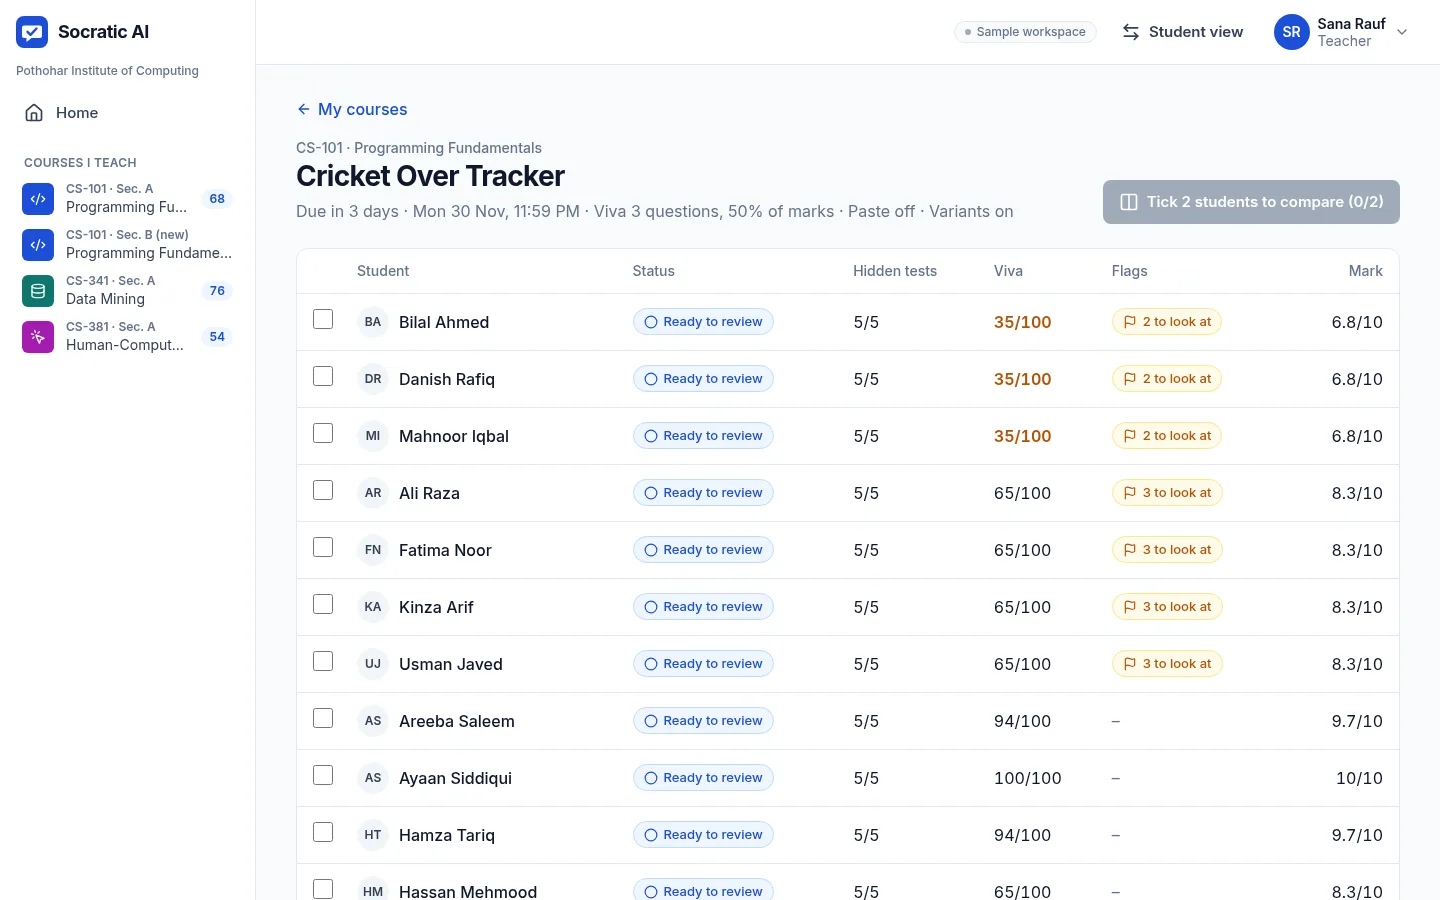
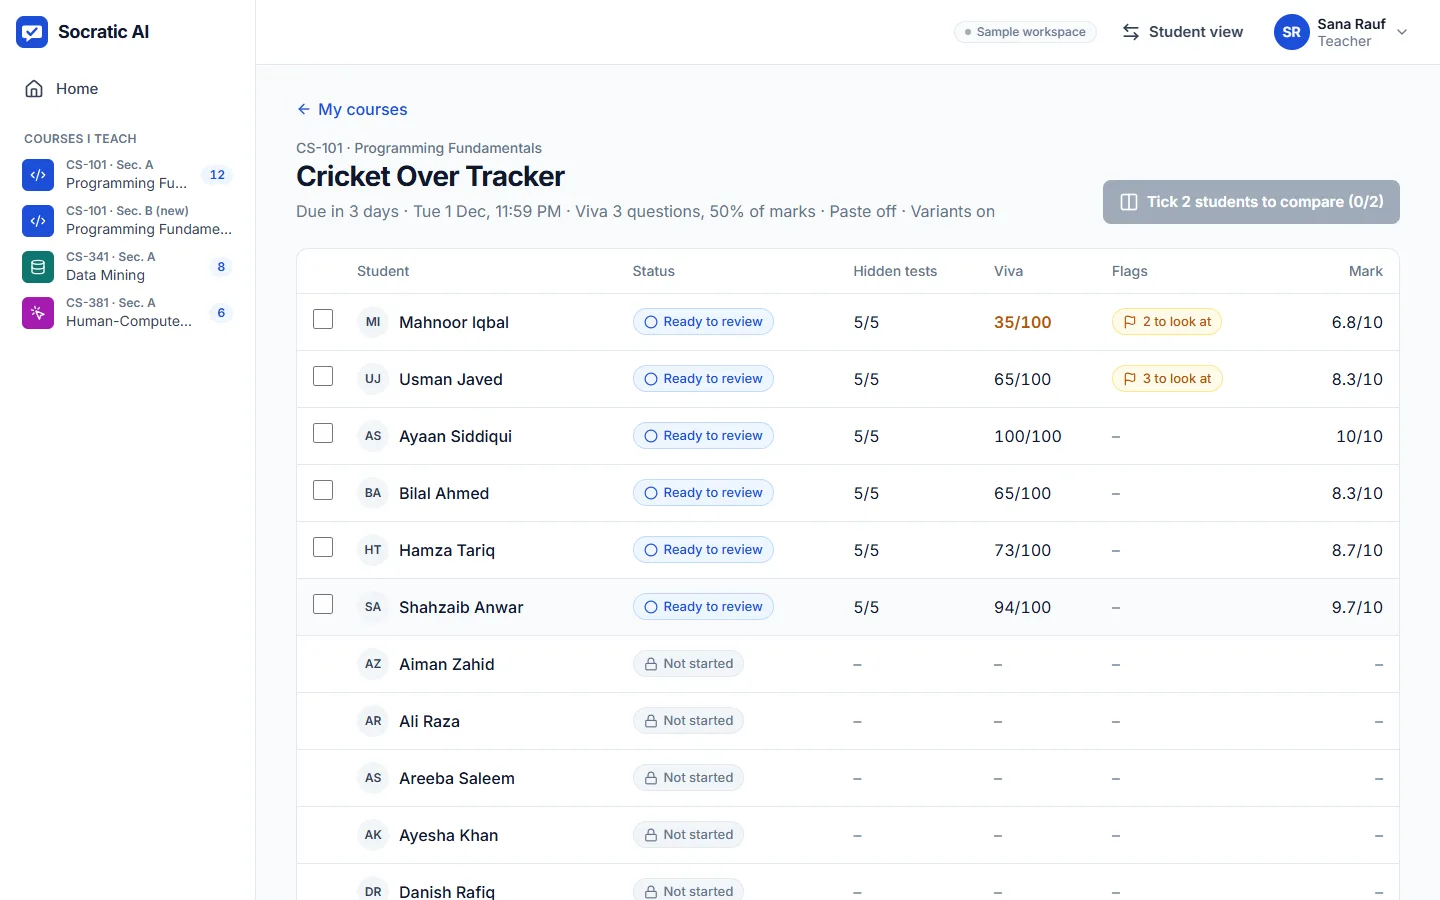
Seed runs on Windows; landing screenshots retaken from the clean sample class (T04, T14)

diff --git a/server/seed/seed.ts b/server/seed/seed.ts
@@ -241,8 +241,12 @@ async function main() {
     for (const [i, chunk] of chunks.entries()) {
       const file = path.join(dir, `seed-${i}.sql`);
       writeFileSync(file, ["begin;", ...chunk, "commit;"].join("\n") + "\n");
-      const r = spawnSync("npx", ["supabase", "db", "query", `--remote=${REFS[target]}`, "--yes", "-f", file], { encoding: "utf8", maxBuffer: 64 * 1024 * 1024 });
-      const output = `${r.stdout}\n${r.stderr}`;
+      // On Windows npx is npx.cmd, which Node can only start through a shell: pass one command line
+      // built from our own values (a fixed project ref and a temp file path, quoted).
+      const args = ["supabase", "db", "query", `--remote=${REFS[target]}`, "--yes", "-f"];
+      const opts = { encoding: "utf8" as const, maxBuffer: 64 * 1024 * 1024 };
+      const r = process.platform === "win32" ? spawnSync(`npx ${args.join(" ")} "${file}"`, { ...opts, shell: true }) : spawnSync("npx", [...args, file], opts);
+      const output = `${r.stdout ?? ""}\n${r.stderr ?? ""}${r.error ? `\n${r.error.message}` : ""}`;
       if (r.status !== 0 || /"_tag":\s*"Error"|ERROR:/.test(output)) {
         console.error(`Seeding ${target} failed in part ${i + 1} of ${chunks.length}:\n${output.slice(-1500)}`);
         process.exit(1);

diff --git a/scripts/marketing-shots.ts b/scripts/marketing-shots.ts
@@ -20,7 +20,8 @@ async function shot(p: Page, name: string) {
 }
 
 (async () => {
-  const b = await puppeteer.launch({ executablePath: "/usr/bin/google-chrome", headless: true, args: ["--no-sandbox"] });
+  // CHROME_PATH lets it run on Windows or macOS, e.g. "C:\Program Files\Google\Chrome\Application\chrome.exe".
+  const b = await puppeteer.launch({ executablePath: process.env.CHROME_PATH ?? "/usr/bin/google-chrome", headless: true, args: ["--no-sandbox"] });
   try {
     // ---------------- student
     const s = await b.newPage();

diff --git a/docs/backlog.md b/docs/backlog.md
@@ -66,7 +66,7 @@
   6. The report shows each transcript with a play button; audio is never public. *Check: manual; and a request for the audio URL without a session returns 401.*
   7. Copy that says "No microphone" changes to "Microphone during the viva only". *Check: `git grep -n "no microphone"` returns nothing outside docs.*
 
-### [~] T04 No cloned classmates in the demo
+### [x] T04 No cloned classmates in the demo
 - **Goal:** No two students in a demo class show the same work, scores and flags.
 - **Why:** Audit 2.1. Identical rows read as fabricated data.
 - **Area:** Basit (`server/seed/**`).
@@ -74,10 +74,14 @@
   1. Each session file appears under one student only (drop `alsoAs`); students with no session show "Not started". *Check: `npm test` seed test on the real session files.*
   2. The Cricket Over Tracker list has no two rows with the same viva, mark and flag count. *Check: manual on localhost after `npm run seed`.*
 - **Files touched:** `server/seed/seed.ts` (new `planPastSubmissions`, one owner per session, `alsoAs` ignored, session files left untouched; `loadSessions` path fixed for Windows), `server/seed/pastSubmissions.test.ts` (new).
-- **Status:** `[~]` Criterion 1 passes. Criterion 2 has **not been run**: the preview database still holds the old seed, and re-seeding needs `npx supabase login` with access to `socratic-ai-preview`, which this session didn't have. Re-seeding preview resets Basit's preview data too, so tell him first.
+- **Status:** Done on preview (2026-11-28). Production is not re-seeded yet: it still shows the cloned rows until `npm run seed -- --production` runs.
+- **Found while seeding:** `npm run seed` could not start the Supabase CLI on Windows (`spawnSync("npx")` needs a shell for `npx.cmd`) and printed only "undefined". It now runs through a shell on Windows with one command line built from our own values, and reports the real error if it fails. Mac/Linux unchanged.
 - **What changes for viewers:** past assignments drop from about 22 submitted rows to 2 to 6 (one per session); the other classmates show "Not started". The demo student (Ayesha) takes the strong session on each closed assignment in her courses instead of getting a second copy of it.
 - **Found on the way:** `loadSessions()` built its folder from `URL.pathname` (`/D:/…` on Windows), so `npm run seed` on Windows would have loaded zero sessions without an error. Now uses `fileURLToPath`.
-- **Verifier output:** `npx vitest run server/seed/pastSubmissions.test.ts`: 4 passed (93 sessions → 93 submissions, no student twice on one assignment, demo student only on strong sessions of closed assignments).
+- **Verifier output:**
+  - Criterion 1: `npx vitest run server/seed/pastSubmissions.test.ts`: 4 passed (93 sessions → 93 submissions, no student twice on one assignment, demo student only on strong sessions of closed assignments).
+  - Seed: `npm run seed` (preview): "Seeded preview in 22.1 s (4774 statements in 3 parts, 0 real + 93 simulated sessions, 93 past submissions)".
+  - Criterion 2: Chrome on localhost, fresh teacher sandbox. Teacher home: "26 submissions to review" (was 198), Cricket Over Tracker "6/30 handed in" (was 21/30). Cricket Over Tracker list: 6 submitted rows, a script comparing tests, viva, flags and mark found 0 identical rows (Usman and Bilal both 65/100, but 3 flags vs none).
 
 ### [ ] T05 Real recorded sessions first — Owner first
 - **Goal:** At least 6 sessions done by real people (team and willing classmates) on Cricket Over Tracker and one other lab, saved with `npm run session:export`, shown before simulated ones.
@@ -170,13 +174,16 @@
   - `npm run lint` clean; `npm test` 19 files, 94 tests passed (Basit's new `content.test.ts` and `study.test.ts` included); `npm run build` built.
   - Not covered: Study with Ustaad's prompt (`server/study.ts`) didn't get T09's no-flattery and language rules; only the workspace mentor did.
 
-### [ ] T14 Landing screenshots match the current interface
+### [x] T14 Landing screenshots match the current interface
 - **Goal:** The six images in `client/public/screens/` show the current platform.
 - **Why:** They were taken before T04 and T12: the hero shows "Pothohar Institute of Computing" under the logo, and `teacher-submissions.webp` shows the cloned classmates.
 - **Depends on:** T04 criterion 2 (re-seed preview first, or the shots capture the clones again).
 - **Criteria and checks:**
   1. `scripts/marketing-shots.ts` runs on Windows. *Check: it reads the Chrome path from an environment variable instead of `/usr/bin/google-chrome`; run it on localhost.*
   2. No image shows an institution name, Urdu script or two identical submission rows. *Check: open each image.*
+- **Files touched:** `scripts/marketing-shots.ts` (`CHROME_PATH`, default unchanged), `client/public/screens/*.webp` (all six retaken).
+- **Status:** Done.
+- **Verifier output:** `CHROME_PATH=…chrome.exe npx tsx scripts/marketing-shots.ts http://localhost:3001` saved all six. Opened each: student home, lecture with Study with Ustaad (a real tutor reply), course assignments, teacher home, Cricket Over Tracker submissions (6 different rows, the rest "Not started"), Usman Javed's report. None shows an institution name or Urdu; each shows the "Sample workspace" label.
 
 ### [x] T11 `npm install` works on Windows
 - **Goal:** A teammate on Windows can run `npm install` without errors.
